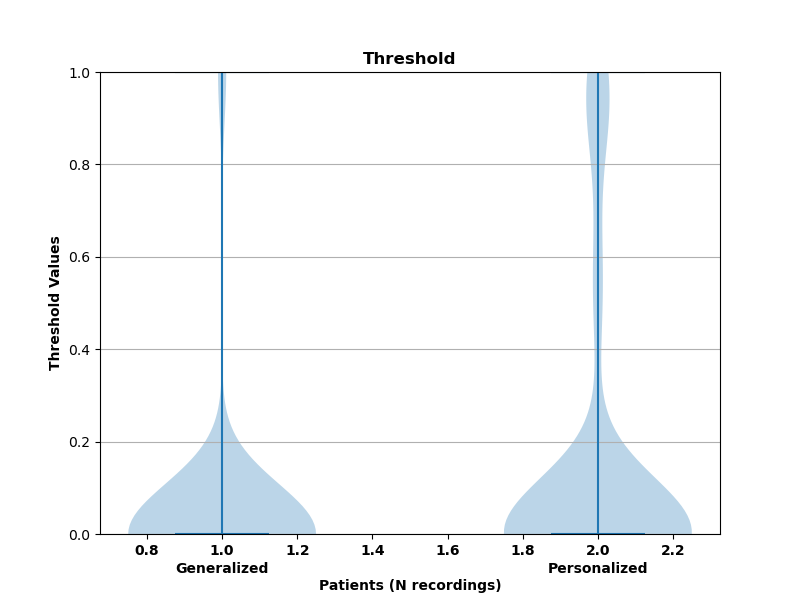
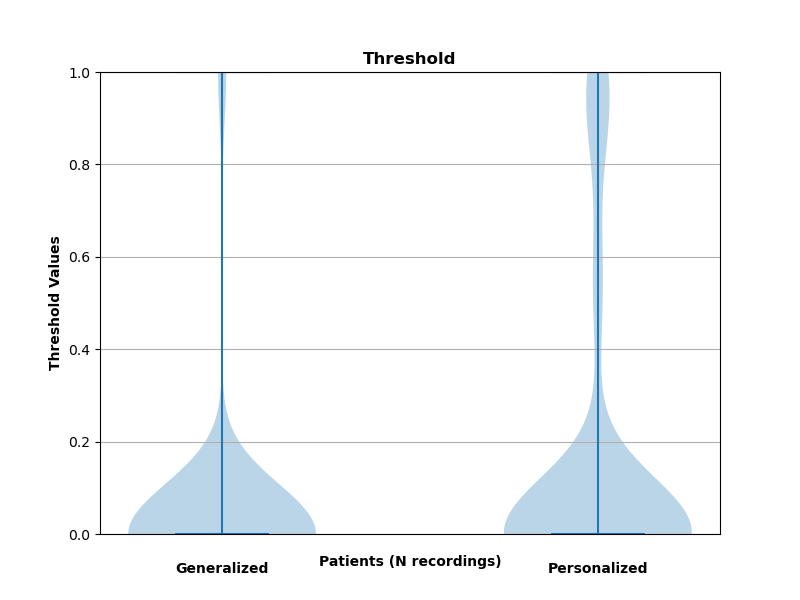
Violines

diff --git a/Code/kfold.py b/Code/kfold.py
@@ -1242,7 +1242,8 @@ def gen_gen_v_per_boxplots():
         if name == 'Threshold':
             # Crear violinplot
             plt.figure(figsize=(8, 6))
-            violinplot = plt.violinplot(metrics)
+            plt.violinplot(metrics)
+            plt.xticks([])
 
             positions = range(1, len(metrics) + 1)
             for pos, label in zip(positions, labels):
